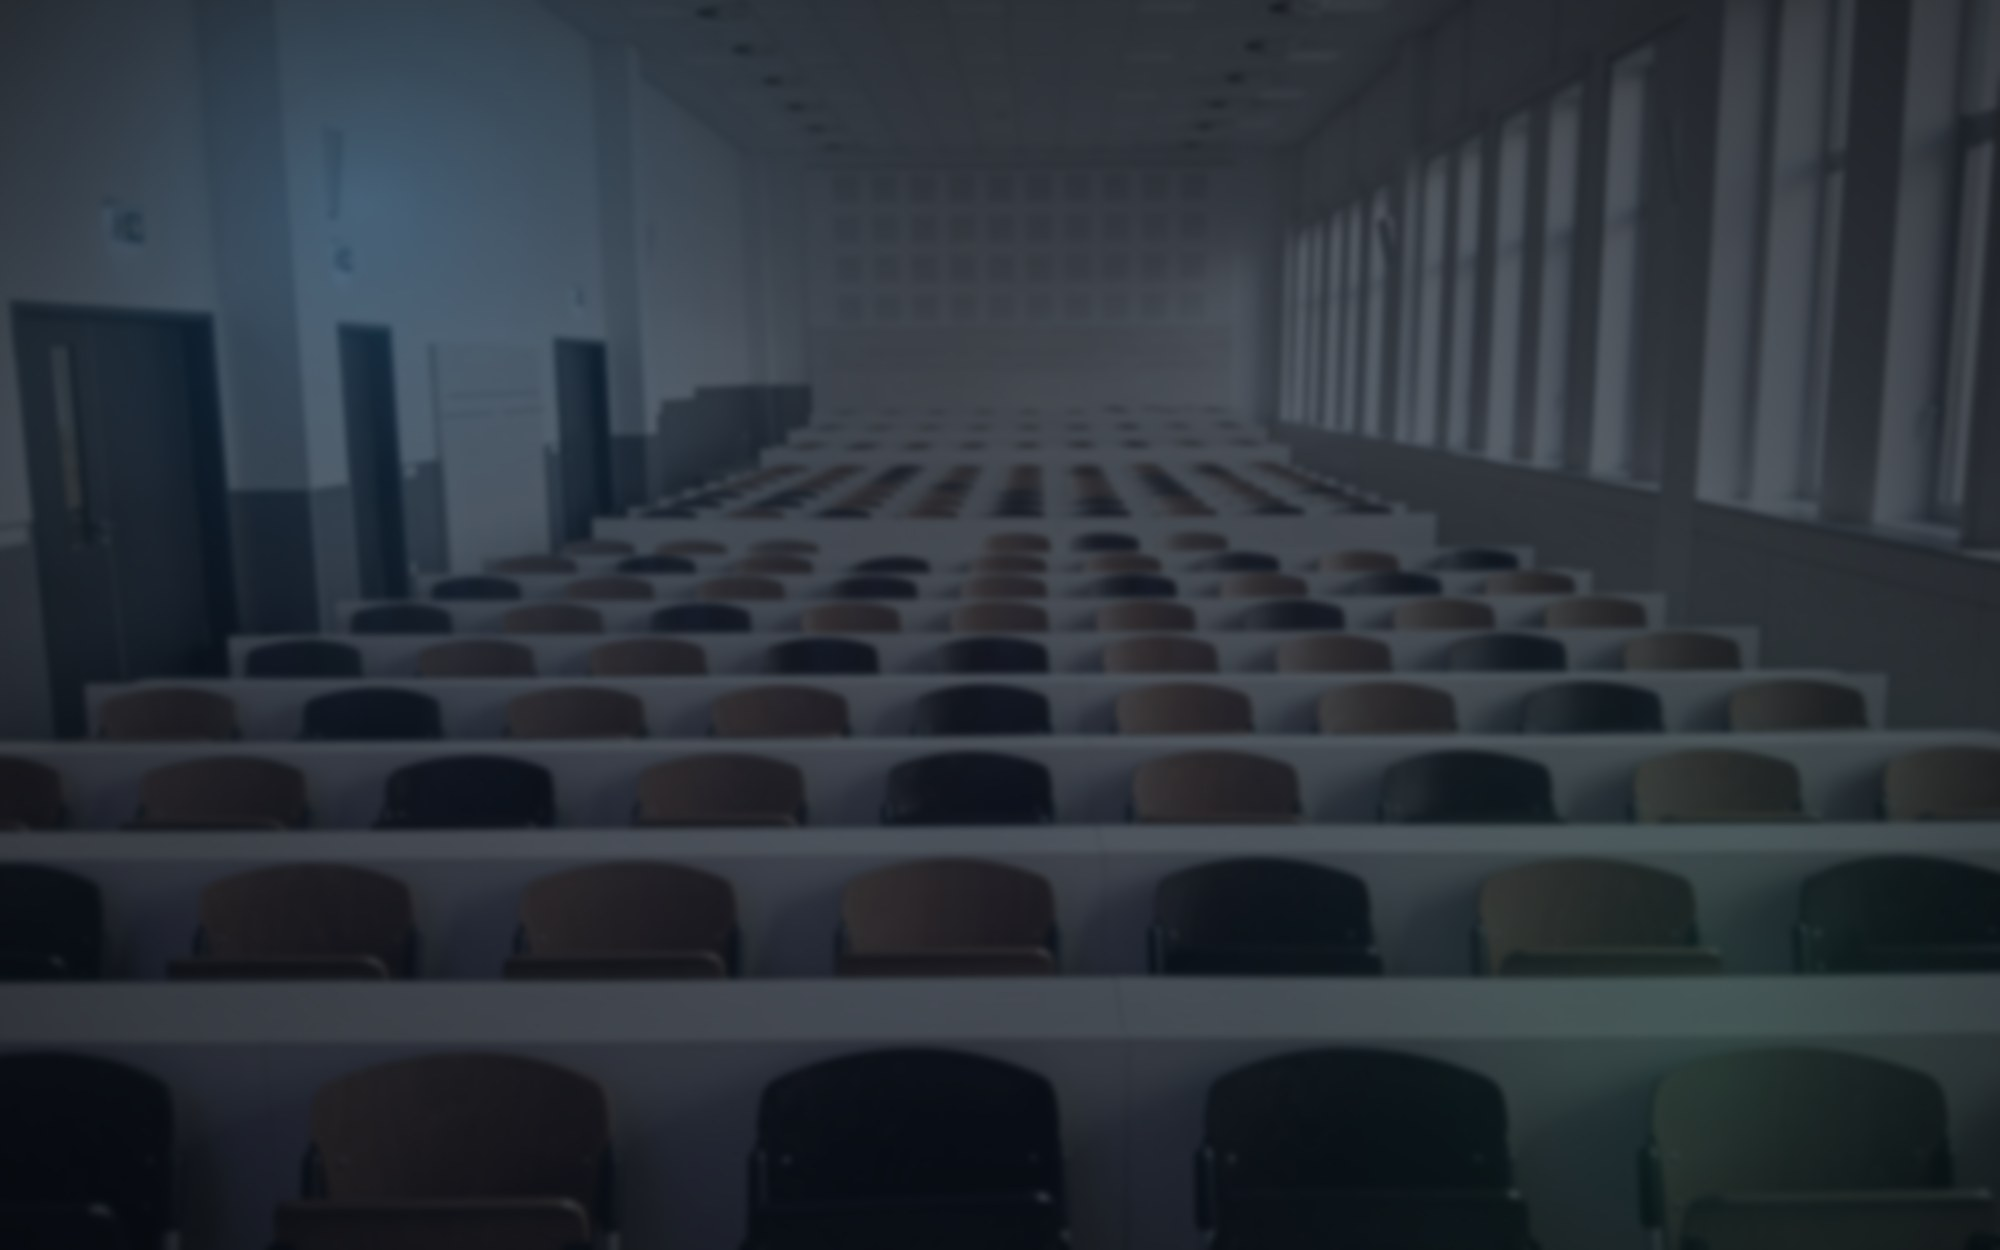
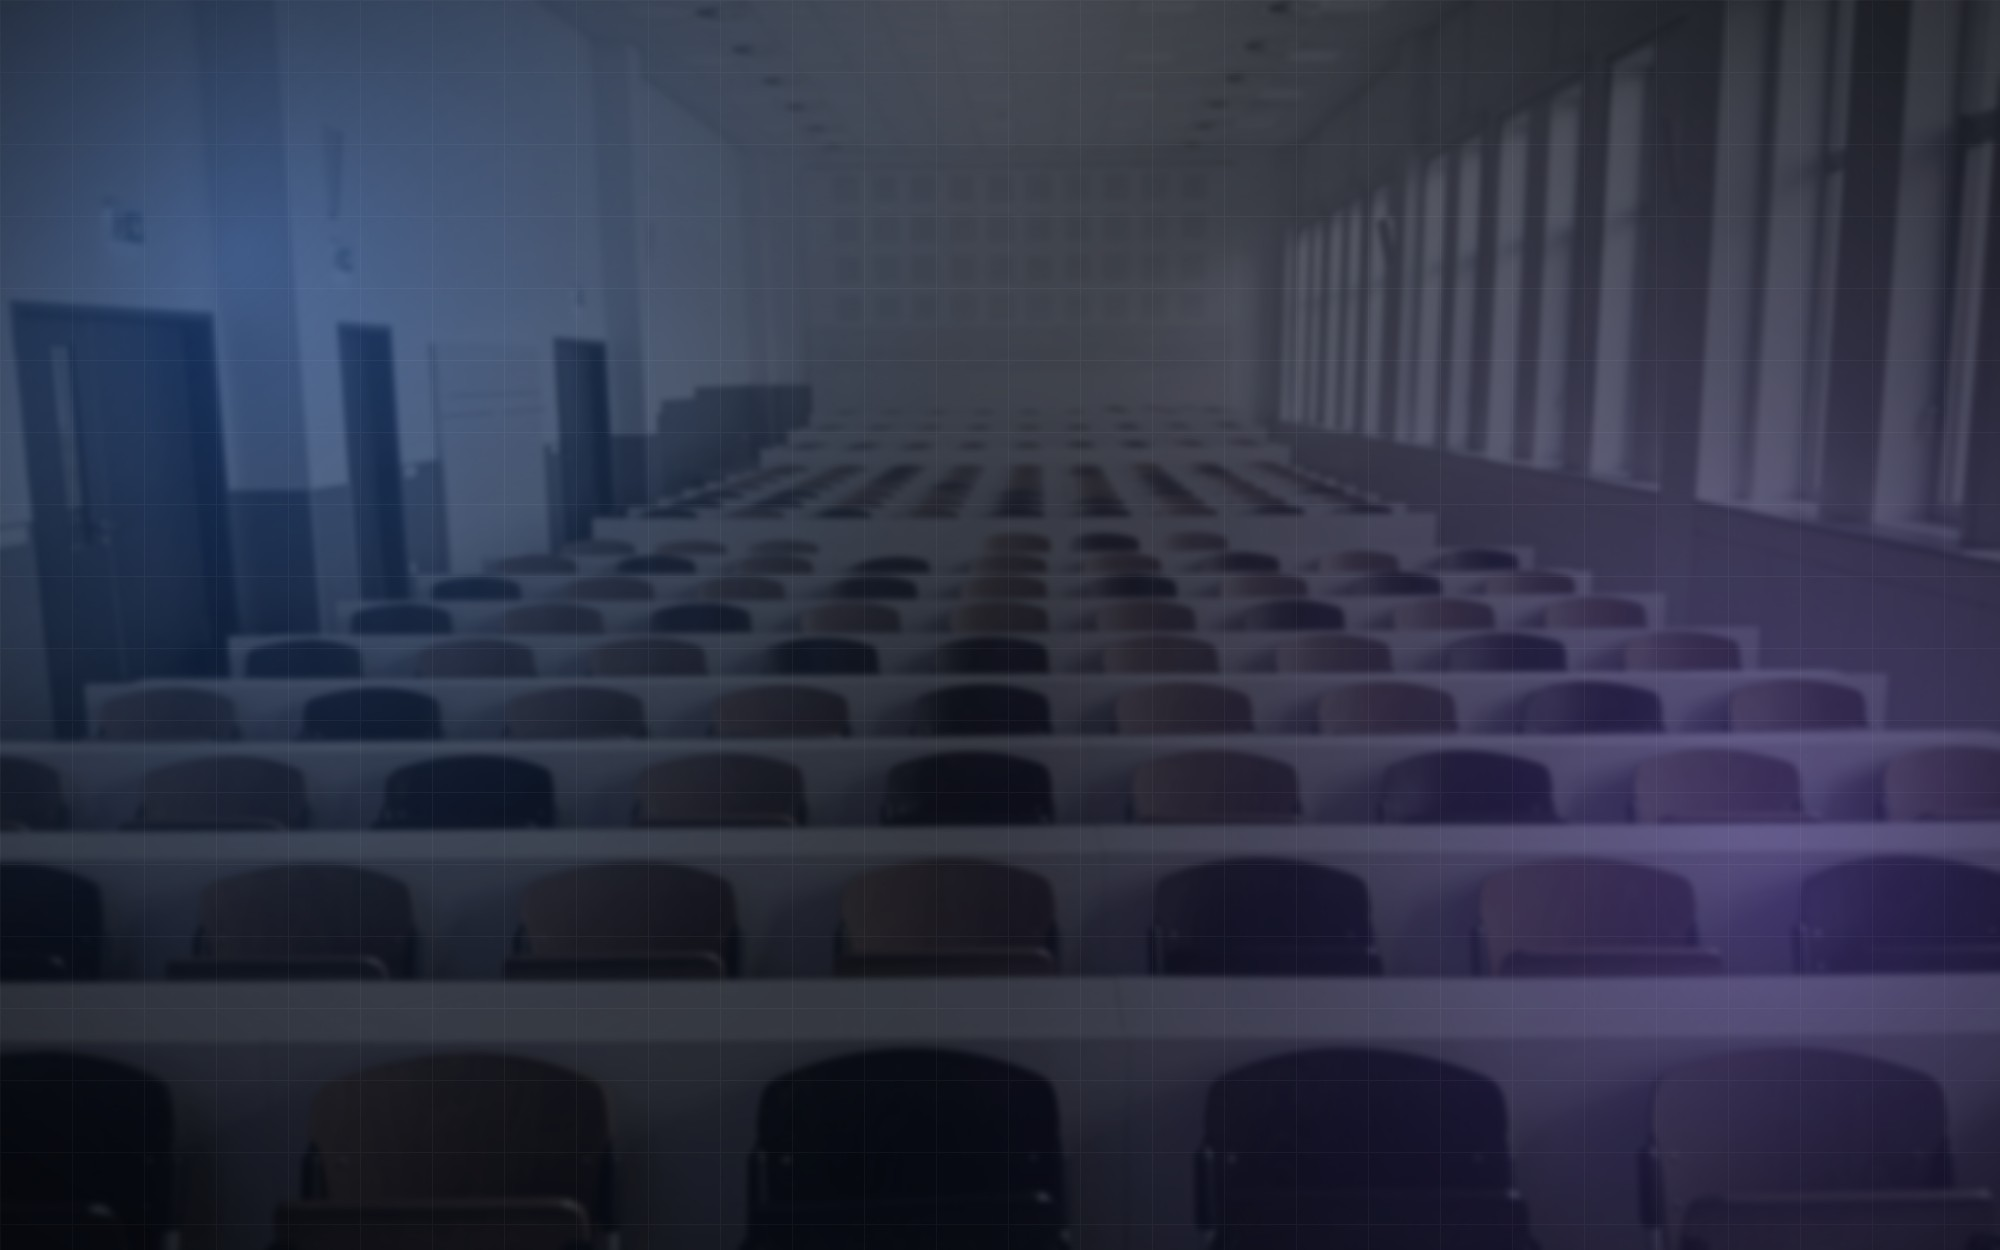
Arayuzu modern bilesen kutuphanelerinin gorsel diline yaklastir
Ikon:
- Duz mavi kare yerine mavi-mor gradyanli squircle; cam parlakligi, dolu
  koltuklarda glow, bos koltuklarda ince cerceve

Giris/kayit ekrani:
- Aurora gecisi (solda mavi, sagda mor), ustten spotlight, ince grid deseni
- Form kutusu artik yuvarlak koseli ve disa dogru parlayan bir kart
  (Tkinter cerceveleri kose yaricapi desteklemedigi icin kart gorsel olarak
  ciziliyor, ayni rengi kullanan form ustune oturuyor)
- Giris butonu paletle uyumlu olmasi icin yesilden maviye alindi

Ana panel:
- Arka plandaki sinav fotografi belirginlestirildi; onceki hali atmosferi
  vermeyecek kadar silikti
- Ozet kartlarina ust vurgu seridi ve rakamlarda esleseeen renk eklendi

Not: shadcn/ui, Aceternity UI, Magic UI, 21st.dev ve React Bits React+Tailwind
kutuphaneleri; Tkinter projesine kurulamiyorlar. Gorsel dilleri (gradyan,
spotlight, grid desen, yuvarlak glow'lu kart) PIL ile yeniden uretildi.

Changed region(s): [[0.713, 0.3744, 1.0, 0.9672], [0.0, 0.0312, 0.217, 0.5928], [0.341, 0.0, 0.558, 0.0936]]

diff --git a/sinav_oturma_plani/styles.py b/sinav_oturma_plani/styles.py
@@ -46,6 +46,8 @@ COLORS = {
     'text_dark': '#2c3e50',
     'text_muted': '#7f8c8d',
     'border': '#d0d7de',
+    'accent': '#3884f6',
+    'accent_dark': '#2f6fd0',
 }
 
 
@@ -72,9 +74,9 @@ def configure_styles(style):
                      font=('Segoe UI', 24, 'bold'))
 
     style.configure('TButton', font=('Segoe UI', 10), padding=6)
-    style.configure('Accent.TButton', background=COLORS['success'], foreground=COLORS['text_light'],
+    style.configure('Accent.TButton', background=COLORS['accent'], foreground=COLORS['text_light'],
                      font=('Segoe UI', 11, 'bold'), padding=8)
-    style.map('Accent.TButton', background=[('active', COLORS['success_dark'])])
+    style.map('Accent.TButton', background=[('active', COLORS['accent_dark'])])
     style.configure('Primary.TButton', background=COLORS['primary'], foreground=COLORS['text_light'],
                      font=('Segoe UI', 10, 'bold'), padding=8)
     style.map('Primary.TButton', background=[('active', COLORS['primary_dark'])])
@@ -141,33 +143,87 @@ class _HoverButton(tk.Button):
 tk.Button = _HoverButton
 
 
+GRADIENT_START = (56, 132, 246)
+GRADIENT_END = (139, 92, 246)
+
+CARD_PADDING = 22
+
+
+def hex_to_rgb(value):
+    return tuple(int(value[i:i + 2], 16) for i in (1, 3, 5))
+
+
+def rounded_card(width, height, fill, glow=GRADIENT_START, radius=20):
+    """Yuvarlak köşeli, ince çerçeveli ve dışa doğru parlayan kart görseli.
+
+    Tkinter çerçeveleri köşe yarıçapını desteklemediği için kart bir görsel
+    olarak çizilir; aynı rengi kullanan form çerçevesi üstüne oturunca tek
+    parça yuvarlak bir kart gibi görünür. Görsel her yönde CARD_PADDING kadar
+    formdan büyüktür."""
+    pad = CARD_PADDING
+    canvas_size = (width + pad * 2, height + pad * 2)
+
+    glow_layer = Image.new('RGBA', canvas_size, (0, 0, 0, 0))
+    ImageDraw.Draw(glow_layer).rounded_rectangle(
+        [pad - 4, pad - 4, pad + width + 4, pad + height + 4],
+        radius=radius + 4, fill=glow + (70,))
+    img = glow_layer.filter(ImageFilter.GaussianBlur(pad * 0.55))
+
+    ImageDraw.Draw(img).rounded_rectangle(
+        [pad, pad, pad + width, pad + height], radius=radius,
+        fill=fill, outline=(255, 255, 255, 42), width=2)
+    return img
+
+
 def generate_app_icon(size=512):
-    """Oturma planını çağrıştıran kare koltuk ızgarasından oluşan rozet ikonu."""
+    """Mavi-mor gradyanlı squircle üzerine koltuk ızgarası.
+
+    Anti-kopya düzenindeki gibi bir sıra dolu bir sıra boş; dolu koltuklar
+    parlak, boş koltuklar saydam bırakılır."""
     scale = 4
     s = size * scale
-    img = Image.new('RGBA', (s, s), (0, 0, 0, 0))
-    draw = ImageDraw.Draw(img)
+    radius = int(s * 0.235)
 
-    pad = int(s * 0.04)
-    primary = tuple(int(COLORS['primary'][i:i + 2], 16) for i in (1, 3, 5)) + (255,)
-    success = tuple(int(COLORS['success'][i:i + 2], 16) for i in (1, 3, 5)) + (255,)
-    draw.rounded_rectangle([pad, pad, s - pad, s - pad], radius=int(s * 0.22), fill=primary)
+    canvas = _diagonal_gradient(s, s, GRADIENT_START, GRADIENT_END, angle_deg=115).convert('RGBA')
 
-    cols, rows = 3, 3
-    grid_pad = int(s * 0.17)
-    gap = int(s * 0.05)
+    # Üstten gelen cam parlaklığı, ikona derinlik veriyor.
+    highlight = Image.new('RGBA', (s, s), (0, 0, 0, 0))
+    ImageDraw.Draw(highlight).ellipse(
+        [-s * 0.35, -s * 0.80, s * 1.35, s * 0.44], fill=(255, 255, 255, 54))
+    canvas = Image.alpha_composite(canvas, highlight.filter(ImageFilter.GaussianBlur(s * 0.05)))
+
+    cols = rows = 3
+    grid_pad = int(s * 0.185)
+    gap = int(s * 0.055)
     cell = (s - 2 * grid_pad - (cols - 1) * gap) / cols
-    seat_radius = cell * 0.22
-    highlighted = {(0, 1), (1, 0), (1, 2), (2, 1)}
+    seat_radius = cell * 0.30
+    dolu = {(0, 0), (0, 2), (1, 1), (2, 0), (2, 2)}
+
+    glow = Image.new('RGBA', (s, s), (0, 0, 0, 0))
+    glow_draw = ImageDraw.Draw(glow)
+    seats = Image.new('RGBA', (s, s), (0, 0, 0, 0))
+    seat_draw = ImageDraw.Draw(seats)
 
     for r in range(rows):
         for c in range(cols):
             x0 = grid_pad + c * (cell + gap)
             y0 = grid_pad + r * (cell + gap)
-            color = success if (r, c) in highlighted else (255, 255, 255, 235)
-            draw.rounded_rectangle([x0, y0, x0 + cell, y0 + cell], radius=seat_radius, fill=color)
+            box = [x0, y0, x0 + cell, y0 + cell]
+            if (r, c) in dolu:
+                glow_draw.rounded_rectangle(box, radius=seat_radius, fill=(255, 255, 255, 140))
+                seat_draw.rounded_rectangle(box, radius=seat_radius, fill=(255, 255, 255, 250))
+            else:
+                seat_draw.rounded_rectangle(box, radius=seat_radius,
+                                             outline=(255, 255, 255, 120), width=int(s * 0.012))
 
-    return img.resize((size, size), Image.LANCZOS)
+    canvas = Image.alpha_composite(canvas, glow.filter(ImageFilter.GaussianBlur(s * 0.03)))
+    canvas = Image.alpha_composite(canvas, seats)
+
+    mask = Image.new('L', (s, s), 0)
+    ImageDraw.Draw(mask).rounded_rectangle([0, 0, s - 1, s - 1], radius=radius, fill=255)
+    canvas.putalpha(mask)
+
+    return canvas.resize((size, size), Image.LANCZOS)
 
 
 def _diagonal_gradient(w, h, c1, c2, angle_deg=120):

diff --git a/sinav_oturma_plani/ui/auth.py b/sinav_oturma_plani/ui/auth.py
@@ -3,9 +3,11 @@ import re
 import tkinter as tk
 from tkinter import ttk, messagebox, simpledialog
 
+from PIL import ImageTk
 from pymongo.errors import DuplicateKeyError, PyMongoError
 
-from ..styles import COLORS, hash_password, verify_password, is_bcrypt_hash
+from ..styles import (CARD_PADDING, COLORS, hash_password, hex_to_rgb, is_bcrypt_hash,
+                       rounded_card, verify_password)
 from .background import ResponsiveBackground
 
 EMAIL_PATTERN = re.compile(r"^[^@\s]+@[^@\s]+\.[^@\s]+$")
@@ -30,8 +32,12 @@ class AuthMixin:
         subtitle_item = canvas.create_text(0, 0, text=subtitle, font=("Segoe UI", 10),
                                             fill=COLORS['text_muted'], anchor="n")
 
+        # Kart görseli formdan önce oluşturuluyor ki formun altında kalsın.
+        card_item = canvas.create_image(0, 0, anchor="n")
         form_frame = tk.Frame(canvas, bg=COLORS['bg_dark'], padx=45, pady=35)
         form_item = canvas.create_window(0, 0, window=form_frame, anchor="n")
+
+        card_size = {'value': None}
 
         def layout(_event=None):
             # Ekran değişiminde canvas, gecikmeli çağrı gelmeden yok edilebilir.
@@ -46,9 +52,17 @@ class AuthMixin:
             block_height = 245 + form_frame.winfo_reqheight()
             top = max(20, (h - block_height) // 2)
 
+            form_w, form_h = form_frame.winfo_reqwidth(), form_frame.winfo_reqheight()
+            if card_size['value'] != (form_w, form_h):
+                card_size['value'] = (form_w, form_h)
+                self._auth_card_img = ImageTk.PhotoImage(
+                    rounded_card(form_w, form_h, hex_to_rgb(COLORS['bg_dark']) + (255,)))
+                canvas.itemconfig(card_item, image=self._auth_card_img)
+
             canvas.coords(icon_item, cx, top)
             canvas.coords(title_item, cx, top + 165)
             canvas.coords(subtitle_item, cx, top + 200)
+            canvas.coords(card_item, cx, top + 235 - CARD_PADDING)
             canvas.coords(form_item, cx, top + 235)
 
         canvas.bind("<Configure>", layout, add="+")

diff --git a/sinav_oturma_plani/ui/dashboard.py b/sinav_oturma_plani/ui/dashboard.py
@@ -6,6 +6,9 @@ from tkinter import ttk
 from ..styles import COLORS
 from .background import ResponsiveBackground
 
+# Özet kartlarının üst şeridinde sırayla kullanılan vurgu renkleri.
+CARD_ACCENTS = ('#3884f6', '#8b5cf6', '#27ae60', '#f39c12', '#2980b9', '#ec4899')
+
 
 class DashboardMixin:
     def show_main_menu(self):
@@ -237,15 +240,21 @@ class DashboardMixin:
         cards_frame.pack(fill=tk.X, padx=32, pady=(12, 0))
 
         for i, (title, value) in enumerate(stats):
+            accent = CARD_ACCENTS[i % len(CARD_ACCENTS)]
+
             card = tk.Frame(cards_frame, bg=COLORS['bg_card'],
-                             highlightbackground=COLORS['border'], highlightthickness=1,
-                             padx=18, pady=16)
+                             highlightbackground=COLORS['border'], highlightthickness=1)
             card.grid(row=0, column=i, padx=8, sticky="nsew")
             cards_frame.grid_columnconfigure(i, weight=1, uniform="card")
 
-            tk.Label(card, text=str(value), font=("Segoe UI", 26, "bold"), bg=COLORS['bg_card'],
-                     fg=COLORS['primary']).pack(anchor="w")
-            tk.Label(card, text=title, font=("Segoe UI", 9, "bold"), bg=COLORS['bg_card'],
+            tk.Frame(card, bg=accent, height=4).pack(fill=tk.X)
+
+            inner = tk.Frame(card, bg=COLORS['bg_card'], padx=18, pady=16)
+            inner.pack(fill=tk.BOTH, expand=True)
+
+            tk.Label(inner, text=str(value), font=("Segoe UI", 26, "bold"),
+                     bg=COLORS['bg_card'], fg=accent).pack(anchor="w")
+            tk.Label(inner, text=title, font=("Segoe UI", 9, "bold"), bg=COLORS['bg_card'],
                      fg=COLORS['text_muted'], wraplength=150).pack(anchor="w", pady=(4, 0))
 
     def _build_quick_actions(self, parent):
